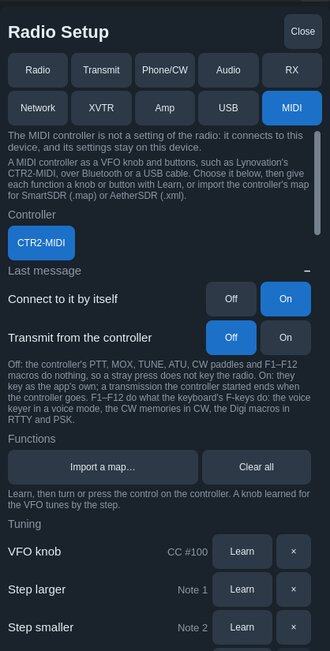
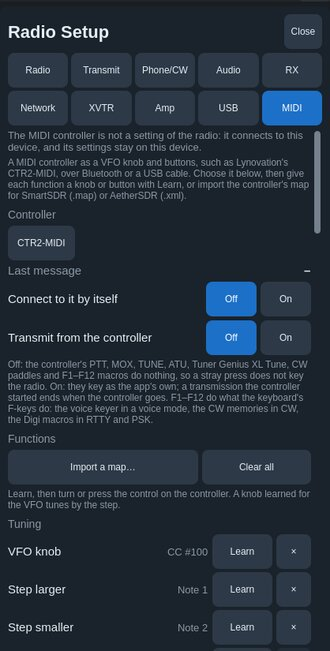
mobile: build 183 docs: notes, the manual (slices on several bands, MIDI Tuner Genius XL Tune, 3D, Linux audio), MIDI screenshot
Claude-Session: https://claude.ai/code/session_01KANojkzU64KoozGDbNDzRK

Changed region(s): [[0.0303, 0.553, 0.9394, 0.6759], [0.6061, 0.4301, 0.9697, 0.4916], [0.0, 0.3379, 0.2424, 0.3994]]

diff --git a/docs/mobile/MANUAL.md b/docs/mobile/MANUAL.md
@@ -973,7 +973,17 @@ Power meter. Two fit side by side, four make 2 × 2.
   follow it).
 - Press and hold for **Make TX slice** and **Close slice**.
 - **+ Slice** and **+ Pan** (bottom right of the waterfall) add a slice or a
-  panadapter.
+  panadapter: **+ Slice** another receiver on the band this panadapter shows,
+  **+ Pan** a panadapter of its own with its own slice, for another band.
+- **Slices on several bands.** The radio hears a slice only on the band its
+  panadapter is on: elsewhere it gives noise, or another slice's audio. So a
+  slice you take to another band than the other slices on its panadapter
+  (**Band**, a typed frequency, a spot, a memory, the FTx tab's bands) gets a
+  panadapter of its own first, keeping its letter, mode and transmit; the
+  other slices stay where they were. A slice left on another band than its
+  panadapter anyway (tuned there by a drag or the knob, or no panadapter
+  free) has an orange outline on its chip; the FTx tab says so while it
+  decodes. Tune it back, or give that band a panadapter (**+ Pan**).
 - Closing the transmit slice hands transmit to the slice that stays, so PTT
   keeps working.
 
@@ -1110,7 +1120,9 @@ stacked trace and sets the levels. They work as on the desktop AetherSDR:
   landscape's shape and the waterfall gets the rest of the height. It keeps
   its history while you are in 2D. If the app stopped while the 3D view was
   on, or the 3D view runs too slowly on the device, the app starts or goes
-  on with the 2D waterfall and says so; turn 3D on again in View.
+  on with the 2D waterfall and says so; turn 3D on again in View. Slow
+  frames while the app is away from the front, or just after a profile
+  load, do not count (thanks Mohammed A71AT).
 
 **Panadapters.** The display shows one panadapter at a time: the one of
 the active slice. Selecting a slice on another panadapter (its chip in the
@@ -2228,7 +2240,11 @@ radio.
   radio's default RTTY mark (2125 Hz as usual), the mark a new RTTY slice
   starts with.
 - **Audio** — the radio's line out and headphone levels and muting, and on
-  a model with a front speaker (an M model) muting that speaker.
+  a model with a front speaker (an M model) muting that speaker. On a Linux
+  computer also **This computer's audio**: the **Speaker** and
+  **Microphone** the app uses there, *System default* (the desktop's own
+  choice) or one of the devices listed; an iPhone, iPad, Mac or Android
+  device routes its audio itself.
 - **RX** — what the radio's receiver is set to, as SmartSDR's Receive and
   Filters pages:
   - **Frequency calibration** — the radio measures a steady carrier of known
@@ -2407,15 +2423,23 @@ radio.
     up / down 1 MHz, zoom in / out, split, band up / down and each band,
     mode next / previous and each mode, filter wider / narrower, slice
     volume, mute, AGC-T, NB, NR, ANF, RF power, CW speed, MOX, TUNE, ATU,
-    PTT (hold), the CW paddles (dit, dah) and the straight key; and under
+    Tuner Genius XL Tune, PTT (hold), the CW paddles (dit, dah) and the
+    straight key; and under
     **Macros** **F1**–**F12** and **Stop (Esc)** (asked by Christoph
     Steinert DM5HF). F1–F12 do what a keyboard's F-keys do: in a voice
     mode they play the voice keyer's recordings (a press while one plays
     stops it), in CW they send the CW memories M1–M12, in RTTY and PSK the
-    Digi tab's macros F1–F8. Stop ends any of them, as Esc.
+    Digi tab's macros F1–F8. Stop ends any of them, as Esc. TUNE is the
+    radio's tune carrier (on, then off with the next press) and ATU the
+    radio's own tuner; **Tuner Genius XL Tune** starts the Tuner Genius XL's
+    own tune cycle, as its Tune on the Amp tab without the question, and a
+    press while it tunes stops it (asked by Hanno Vogels DK3HV). PTT (hold)
+    transmits only while the button is held; MOX stays on until the next
+    press.
   - **Transmit from the controller** is **Off** until turned on (it asks
-    first). While off, the controller's PTT, MOX, TUNE, ATU, CW paddles and
-    F1–F12 do nothing, so a stray press does not key the radio. A transmission
+    first). While off, the controller's PTT, MOX, TUNE, ATU, Tuner Genius XL
+    Tune, CW paddles and F1–F12 do nothing, so a stray press does not key
+    the radio. A transmission
     the controller started ends when the controller goes (switched off or
     out of range). The app's own rules apply: PTT is for voice, as the PTT
     button.
